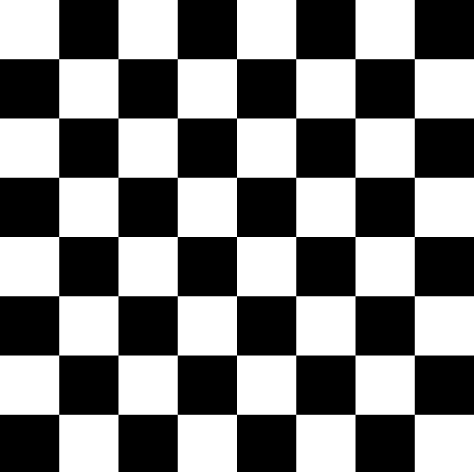
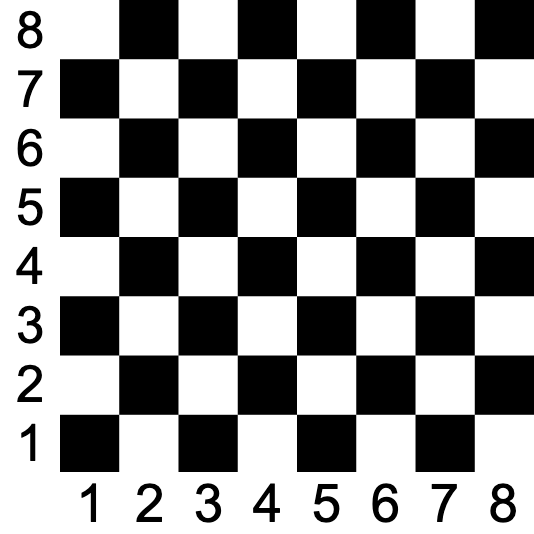
Added numbers on the chessboard to notate rows and cols

diff --git a/games/chess/Structures/ChessPiece.java b/games/chess/Structures/ChessPiece.java
@@ -50,6 +50,6 @@ public abstract class ChessPiece
    
     public void display() throws IOException
     {
-        i.display(pieceImage, col * 59, (7 - row) * 59);
+        i.display(pieceImage, 62 + col * 59, (7 - row) * 59);
     }
 }
